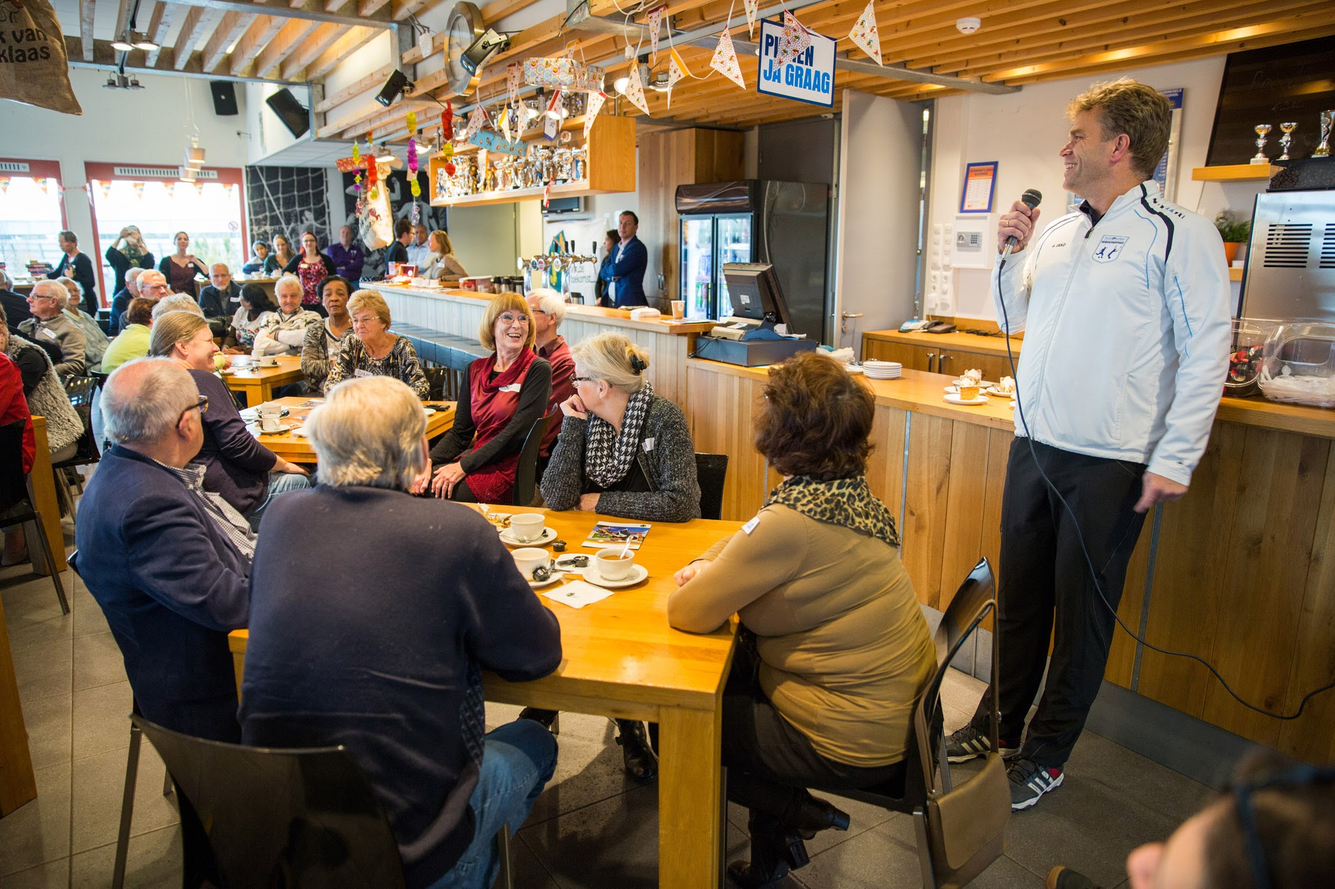
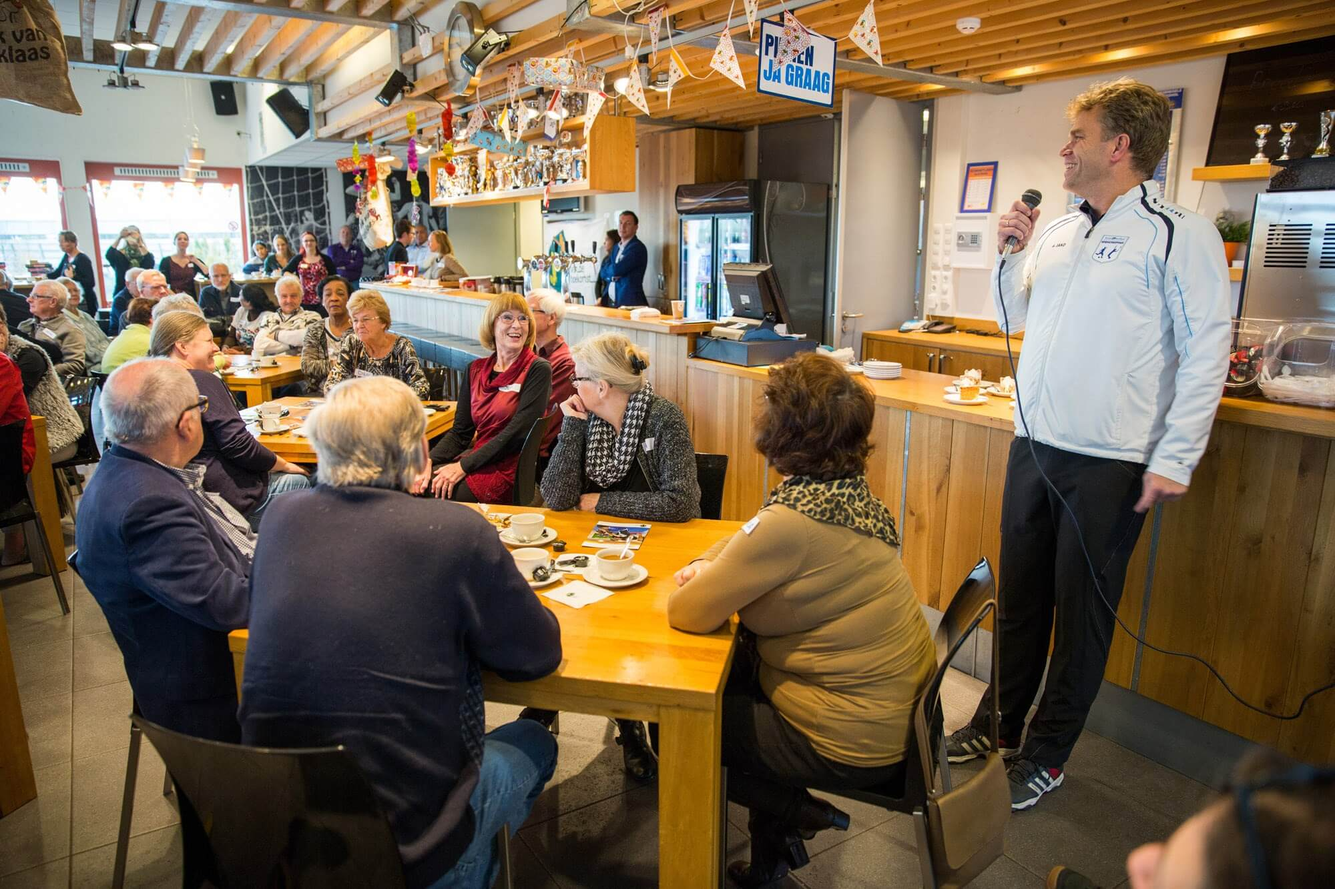
contact, css, team, visie en foto's
kaartje contact schermvriendelijk gemaakt, footer vastgezet, team binnen
de lijntjes bij phone, visie voor mobiel, foto's kleiner gemaakt

diff --git a/html/vision.html b/html/vision.html
@@ -71,7 +71,8 @@
         <!-- /.container -->
     </nav>
 
-    <div class="container">
+   <!-- Content voor pc en tablet schermen -->
+   <div class="container hidden-xs hidden-sm">
         <div class="row">
             <div class="box"> 
                 <div class="col-lg-12 text-center">
@@ -118,6 +119,43 @@
 					<div class="col-lg-10">
 						<p>Onze aanpak is gericht op samenwerken. Wij geloven dat de lokale bevolking, het MKB, dorpsambassadeurs en de gemeente heel goed hun wensen kunnen identificeren en formuleren. Wij als bedrijf gaan daarom ieders wensen in kaart brengen en met slimme oplossingen ieders wensen zo goed mogelijk vervullen. We verzamelen de wensen van de belanghebbenden door middel van interviews bij mensen thuis, het laten invullen van enquêtes en het houden van bijeenkomsten zoals rondetafelgesprekken en informatieavonden. Na het verzamelen van alle wensen, gaan we creatieve oplossingen bedenken, vergelijkbare oplossingen bij andere dorpen bekijken en waar mogelijk toepassen. Als resultaat komt er een plan van aanpak met aanbevelingen en oplossingen voor de lokale wethouders.</p></div>
                    <div class="col-lg-1"></div>                   
+                </div>
+            </div>
+        </div>
+    </div>
+    
+    <!-- Content voor mobiele schermen -->
+    <div class="container hidden-lg hidden-md">
+        <div class="row">
+            <div class="box"> 
+                <div class="col-lg-12 text-center">
+					<hr>
+					<h2 class="intro-text text-center">Onze
+						<strong>Visie</strong>
+					</h2>
+					<hr>
+					<p>Onze visie van een kleine kern is dat er genoeg voorzieningen zijn zodat iedereen zo lang mogelijk in zijn dorp kan blijven wonen. Dit betekent dat supermarkt, kapper en de fietsenmaker goed bereikbaar zijn en niet in een stad 10km verderop. Een supermarkt hoeft geen vast iets te zijn, want de nood is boodschappen en geen super. Een goede bezorgdienst voor allerlei voorzieningen zou ook goed kunnen werken, boodschappen, pakketjes, maar ook een mobiele kapper en fietsenmaker. Onze dienst is een pad uitstippelen en inzetten om krimp te stoppen die veroorzaakt wordt door het verlies van voorzieningen, wat zonder ingrijpen een negatieve spiraal zou veroorzaken. Ons doel is om ook mensen in het dorp te verbinden en samen te laten werken zodat een actief en gezond dorp ontstaat waar iedereen mee kan doen.</p></div>
+			</div>
+			
+			<div class="box">
+				<div class="col-lg-12 text-center">
+					<hr>
+					<h2 class="intro-text text-center">Het
+						<strong>Probleem</strong>
+					</h2>
+					<hr>
+					<p>Bevolkingsdaling bij kleine kernen kan uitlopen tot een groot probleem. De oorzaak van krimp komt door een kleiner aantal kinderen per gezin, het wegtrekken van jongeren, hoogopgeleiden en gezinnen naar grote steden. De gevolgen hiervan zijn vaak catastrofaal voor de leefbaarheid van een kleine dorpskern. Zo raken bijvoorbeeld woningen onverkoopbaar, raken winkels failliet, daalt het aantal faciliteiten en pinautomaten. Als resultaat dat bewoners steeds verder moeten reizen om aan hun behoeften te voldoen, waar dit voor sommigen te ver is, waardoor zij verhuizen. De gevolgen van deze krimp zetten een negatieve spiraal in, waardoor de desbetreffende gemeente nog harder krimpt. </p>
+				</div>
+			</div>
+				
+			<div class="box">
+				<div class="col-lg-12 text-center">
+					<hr>
+					<h2 class="intro-text text-center">Onze
+						<strong>Aanpak</strong>
+					</h2>
+					<hr>
+					<p>Onze aanpak is gericht op samenwerken. Wij geloven dat de lokale bevolking, het MKB, dorpsambassadeurs en de gemeente heel goed hun wensen kunnen identificeren en formuleren. Wij als bedrijf gaan daarom ieders wensen in kaart brengen en met slimme oplossingen ieders wensen zo goed mogelijk vervullen. We verzamelen de wensen van de belanghebbenden door middel van interviews bij mensen thuis, het laten invullen van enquêtes en het houden van bijeenkomsten zoals rondetafelgesprekken en informatieavonden. Na het verzamelen van alle wensen, gaan we creatieve oplossingen bedenken, vergelijkbare oplossingen bij andere dorpen bekijken en waar mogelijk toepassen. Als resultaat komt er een plan van aanpak met aanbevelingen en oplossingen voor de lokale wethouders.</p>                  
                 </div>
             </div>
         </div>

diff --git a/html/contact.html b/html/contact.html
@@ -46,7 +46,7 @@
                     <span class="icon-bar"></span>
                 </button>
                 <!-- navbar-brand is hidden on larger screens, but visible when the menu is collapsed -->
-                <a class="navbar-brand" href="index.html">Micropool</a>
+                <a class="navbar-brand" href="../index.html">Micropool</a>
             </div>
             <!-- Collect the nav links, forms, and other content for toggling -->
             <div class="collapse navbar-collapse" id="bs-example-navbar-collapse-1">
@@ -84,8 +84,24 @@
                     <hr>
                 </div>
 
-                <div class="col-md-12">
-                   	<iframe width="100%" height="100%" frameborder="0" style="border:0" src="https://www.google.com/maps/embed/v1/view?zoom=14&center=51.4486%2C5.4907&key=AIzaSyBwh6GI7f-hYaAAB9bisyRk6ZVR7mIopXo" allowfullscreen></iframe>
+               <!-- Kaartje voor grote schermen -->
+                <div class="col-md-12 hidden-md hidden-sm hidden-xs">
+					<center><iframe width="80%" height="450px" frameborder="0" style="border:0" src="https://www.google.com/maps/embed/v1/view?zoom=13,5&center=51.4486%2C5.4907&key=AIzaSyD2Gu2dUWLUovGaKdkQI-bpre1Q6Tq5SR8" allowfullscreen></iframe></center>
+                </div>
+                  	
+                <!-- Kaartje voor middle sized screens -->
+                <div class="col-md-12 hidden-lg hidden-sm hidden-xs">
+					<center><iframe width="80%" height="450px" frameborder="0" style="border:0" src="https://www.google.com/maps/embed/v1/view?zoom=13,5&center=51.4486%2C5.4907&key=AIzaSyD2Gu2dUWLUovGaKdkQI-bpre1Q6Tq5SR8" allowfullscreen></iframe></center>
+                </div>
+                  	
+                <!-- Kaartje voor small screens -->
+                <div class="col-md-12 hidden-lg hidden-md hidden-xs">
+					<center><iframe width="90%" height="400px" frameborder="0" style="border:0" src="https://www.google.com/maps/embed/v1/view?zoom=14&center=51.4486%2C5.4907&key=AIzaSyD2Gu2dUWLUovGaKdkQI-bpre1Q6Tq5SR8" allowfullscreen></iframe></center>
+                </div>
+                               
+				<!-- Kaartje voor extrakleine schermen -->
+				<div class="col-md-12 hidden-lg hidden-md hidden-sm">
+					<center><iframe width="100%" height="300px" frameborder="0" style="border:0" src="https://www.google.com/maps/embed/v1/view?zoom=13&center=51.4486%2C5.4907&key=AIzaSyD2Gu2dUWLUovGaKdkQI-bpre1Q6Tq5SR8" allowfullscreen></iframe></center>
                 </div>
                                 
                 <div class="clearfix"></div>
@@ -101,6 +117,7 @@
                     </h2><hr>
                     <p class="text-center">Mocht u nog vragen of onduidelijkheden hebben, aarzel dan alstublieft niet ons te contacteren. Wij horen graag van u!</p>
                     <p class="text-center">Stuur een mail naar <strong><a href="mailto:contact@micropool.nl">contact@micropool.nl</a></strong>, of vul onderstaand contactformulier in.</p>
+                    <hr>
                     
                     <form role="form" action="./contactmaarphp.php" method="post">
                         <div class="row">

diff --git a/html/team.html b/html/team.html
@@ -187,26 +187,26 @@
                 </div>
                 <div class="col-xs-4 text-center">
                     <img class="img-responsive person-size-xsmall" src="../img/Rodger2.jpg" alt="">
-                    <h3><a href="#rodger-small" class="no-link">Rodger van der Heijden</a>
+                    <h4><a href="#rodger-small" class="no-link">Rodger van der Heijden</a>
                         <br>
                         <small>Oprichter</small>
-                    </h3>
+                    </h4>
                 </div>
 
                 <div class="col-xs-4 text-center">
                     <img class="img-responsive person-size-xsmall" src="../img/Toby2.jpg" alt="">
-                    <h3><a href="#toby-small" class="no-link">Toby Serier</a>
+                    <h4><a href="#toby-small" class="no-link">Toby Serier</a>
                         <br>
                         <small>Oprichter</small>
-                    </h3>
+                    </h4>
                 </div>
 
                 <div class="col-xs-4 text-center">
                     <img class="img-responsive person-size-xsmall" src="../img/Marvin2.jpg" alt="">
-                    <h3><a href="#marvin-small" class="no-link">Marvin Tiemessen</a>
+                    <h4><a href="#marvin-small" class="no-link">Marvin Tiemessen</a>
                         <br>
                         <small>Oprichter</small>
-                    </h3>
+                    </h4>
                 </div>
                 <div class="clearfix"></div>
             </div>
@@ -379,10 +379,9 @@
             <div class="box" id="marvin-small">
                 <div class="col-md-12 text-center">
                        <h3>Marvin Tiemessen <br>
-                       <small>Student Sustainable Energy Technology TU/e</small></h3>
+                       <small>Sustainable Energy Technology TU/e</small></h3>
                        <hr>
                        <img class="img-responsive person-size" src="../img/Marvin1cropped.jpg.png" alt="">
-                    
                 </div>
 
                 <div class="col-md-12 text-center">                   

diff --git a/css/business-casual.css b/css/business-casual.css
@@ -229,3 +229,16 @@ a.no-link{
 .smaller-text {
 	font-size: 100%;
 }
+
+#extramargin {
+	margin-top: 100px;
+	margin-bottom: 160px;
+}
+
+#clamped {
+	position: fixed;
+	left:0px;
+	bottom:0px;
+	height:125px;
+	width:100%;
+}

diff --git a/html/contactmaarphp.php b/html/contactmaarphp.php
@@ -46,7 +46,7 @@
                     <span class="icon-bar"></span>
                 </button>
                 <!-- navbar-brand is hidden on larger screens, but visible when the menu is collapsed -->
-                <a class="navbar-brand" href="index.html">Micropool</a>
+                <a class="navbar-brand" href="../index.html">Micropool</a>
             </div>
             <!-- Collect the nav links, forms, and other content for toggling -->
             <div class="collapse navbar-collapse" id="bs-example-navbar-collapse-1">
@@ -72,63 +72,15 @@
 
     <div class="container">
 
-       	
         <div class="row">
-         	<!-- Kaartje met als locatie de uni -->
-            <div class="box">
-                <div class="col-md-12">
-                    <hr>
-                    <h2 class="intro-text text-center">Contact
-                        <strong>Micropool</strong>
-                    </h2>
-                    <hr>
-                </div>
-
-                <div class="col-md-12">
-                   	<iframe width="100%" height="100%" frameborder="0" style="border:0" src="https://www.google.com/maps/embed/v1/view?zoom=14&center=51.4486%2C5.4907&key=AIzaSyBwh6GI7f-hYaAAB9bisyRk6ZVR7mIopXo" allowfullscreen></iframe>
-                </div>
-                                
-                <div class="clearfix"></div>
-            </div>
-        </div>
-  
-
-        <div class="row">
-            <div class="box">
-                <div class="col-lg-12">
-                    <hr><h2 class="intro-text text-center">Ons 
-                    <strong>Contactformulier</strong>
-                    </h2><hr>
-                    <p class="text-center">Mocht u nog vragen of onduidelijkheden hebben, aarzel dan alstublieft niet ons te contacteren. Wij horen graag van u!</p>
-                    <p class="text-center">Stuur een mail naar <strong><a href="mailto:contact@micropool.nl">contact@micropool.nl</a></strong>, of vul onderstaand contactformulier in.</p>
-                    
-                    <form role="form" action="./contactmaarphp.php" method="post">
-                        <div class="row">
-                            <div class="form-group col-lg-4">
-                                <label for="naam">Naam</label>
-                                <input type="text" id="naam" name="name" class="form-control" placeholder="Uw naam" required autocomplete="name">
-                            </div>
-                            <div class="form-group col-lg-4">
-                                <label for="email">Email-adres</label>
-                                <input type="email" id="email" name="email" class="form-control" placeholder="email@voorbeeld.nl" required autocomplete="email">
-                            </div>
-                            <div class="form-group col-lg-4">
-                                <label for="telnr">Telefoonnummer</label>
-                                <input type="tel" id="telnr" name="tel" class="form-control" placeholder="06 12345678" required autocomplete="tel">
-                            </div>
-                            <div class="clearfix"></div>
-                            <div class="form-group col-lg-12">
-                                <label>Bericht</label>
-                                <textarea class="form-control" rows="6"></textarea>
-                            </div>
-                            
-                            <div class="form-group col-lg-12">
-                                <input type="hidden" name="save" value="contact">
-                                <button type="submit" class="btn btn-default">Verstuur</button>
-                            </div>
-                        </div>
-                    </form>
-                </div>
+            <div class="box" id="extramargin">
+            	<div class="col-lg-12 text-center">
+            		<br>
+            		<br>
+					<p>Bedankt voor uw interesse! We mailen u zo spoedig mogelijk terug!</p>
+					<br>
+					<br>
+				</div>
             </div>
         </div>
 
@@ -136,7 +88,7 @@
     <!-- /.container -->
 
    	<!-- footer, niks interessants -->
-    <footer>
+    <footer id="clamped">
         <div class="container">
             <div class="row">
                 <div class="col-lg-12 text-center">
